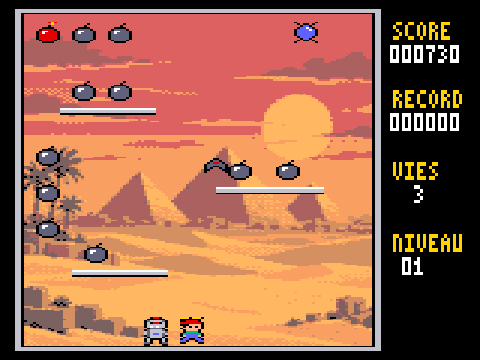
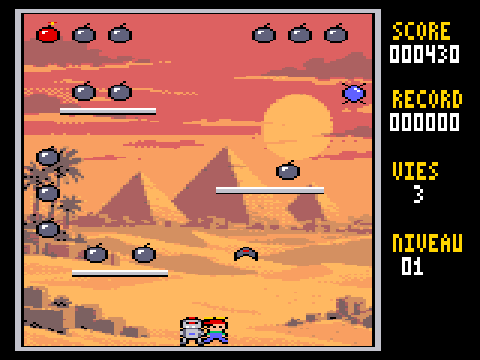
Chaîne de bombes allumées avec bonus, pièce éclair et glaçons
- chaîne : bonus de fin de niveau 10000/20000/30000/50000 pour 15/16/17/18 bombes allumées
- jauge (+1 éteinte, +2 allumée) : à 20, pièce éclair au centre ; prise : 5 s de gel,
  ennemis en glaçons immobiles mangés pour 100..2000 points, clignotement final, grâce
- tests : chaîne complète, apparition de la pièce, gel, glaçons mangés, fin du gel

diff --git a/test/test_jeu.py b/test/test_jeu.py
@@ -201,5 +201,45 @@ vide = sum(px[y][x] != 0 for y in range(8, 192) for x in range(8, 124) if (y, x)
 check(s.peek(S['GSTATE']) == 0 and vide == 0 and s.palette_rgb()[15] == tuple(lv[c] for c in pal_attendue[15]),
       f"sans disquette : fond noir hors bombes et Toto ({vide} pixels), couleurs des sprites, pas de plantage")
 
+# 14. chaîne de bombes allumées : les 18 dans l'ordre -> 18 x 200 + bonus 50000
+def prendre(s, i):
+    bx, by = NIV['bombes'][i] if i < 18 else NIV['piece']
+    poke(s, 'ENTS', bx // 2); poke(s, 'ENTS', by, 1); poke(s, 'ONGND', 0); s.run_frames(3)
+s = boot()
+for n in range(18):
+    s.mem.ram[S['INVUL']] = 250
+    prendre(s, s.peek(S['LIT']))
+check(s.peek(S['CHAIN']) == 18 and s.peek(S['GSTATE']) == 2 and score(s) == '053600' and s.border == 11,
+      f"chaîne complète : {s.peek(S['CHAIN'])} bombes allumées, score {score(s)} (3600 + bonus 50000), bord jaune")
+
+# 15. jauge -> pièce éclair -> gel : glaçons mangés 100 puis 200, fin du gel
+s = boot(); s.mem.ram[S['NMAXLV']] = 3
+while s.peek(S['NENN']) < 3:
+    s.mem.ram[S['INVUL']] = 250; s.mem.ram[S['SPT']] = min(s.peek(S['SPT']), 10); s.run_frames(10)
+for n in range(10):
+    s.mem.ram[S['INVUL']] = 250
+    prendre(s, s.peek(S['LIT']))
+cx, cy = NIV['piece']
+px = pixels(s)
+dessin = sum(px[cy + j][cx + i] != NIV['decor'][cy + j][cx + i] for j in range(12) for i in range(8))
+check(s.peek(S['COINON']) == 1 and dessin > 20 and s.peek(S['PWR']) == 0, f"jauge à 20 (10 bombes allumées) : la pièce éclair apparaît ({dessin} pixels)")
+sc0 = int(score(s)); s.mem.ram[S['INVUL']] = 0
+prendre(s, 18)
+enn = [E + 16 * k for k in range(1, s.peek(S['NENN']) + 1)]
+check(s.peek(S['POWER']) > 200 and s.border == 14 and all(s.mem.read_word(b + 6) == S['SPR_GLACON'] for b in enn),
+      "pièce prise : gel, ennemis en glaçons, bord bleu")
+pos = [(s.peek(b), s.peek(b + 1)) for b in enn]; s.run_frames(20)
+check(pos == [(s.peek(b), s.peek(b + 1)) for b in enn], "les glaçons ne bougent pas")
+for k, pts in ((1, 100), (1, 200)):
+    n0 = s.peek(S['NENN']); b = E + 16 * k
+    s.mem.ram[b] = P(s); s.mem.ram[b + 1] = Y(s); s.run_frames(3)
+    check(s.peek(S['NENN']) == n0 - 1 and int(score(s)) - sc0 == pts and s.peek(S['GSTATE']) == 0,
+          f"glaçon mangé : +{int(score(s)) - sc0} points, {s.peek(S['NENN'])} ennemi(s) restant(s), Toto intact")
+    sc0 = int(score(s))
+s.run_frames(260)
+reste = [E + 16 * k for k in range(1, s.peek(S['NENN']) + 1)]
+check(s.peek(S['POWER']) == 0 and s.border == 0 and all(s.mem.read_word(b + 6) != S['SPR_GLACON'] for b in reste),
+      "fin du gel : les ennemis reprennent leur apparence")
+
 print('\n' + ('TOUT EST OK' if not fails else f'{len(fails)} ÉCHEC(S)'))
 sys.exit(1 if fails else 0)

diff --git a/source/donnees.py b/source/donnees.py
@@ -21,6 +21,7 @@ BOMBES = [(12, 12), (24, 12), (36, 12), (84, 12), (96, 12), (108, 12),
           (12, 80), (12, 100), (12, 120), (112, 70), (112, 90), (112, 110),
           (24, 44), (36, 44), (76, 88), (92, 88), (28, 134), (44, 134)]
 DEPART = (60, 176)                                 # Toto au départ (x pixels, y)
+PIECE = (60, 76)                                   # pièce éclair : au centre, loin des bombes et plateformes
 
 def charge_decor(nom):
     """décor converti par outils/convertir_decor.py -> (pixels[200][160], niveaux TO9 de la palette)"""
@@ -142,7 +143,7 @@ if __name__ == '__main__':
     out.append(f"NPLAT   EQU     {len(PLATEFORMES)}")
     db("PLATS", sum([[x // 2, (x + w) // 2, y] for x, y, w in PLATEFORMES], []), 12)
     out.append(f"NBOMB   EQU     {len(BOMBES)}")
-    db("BOMBS", sum([[x // 2, y] for x, y in BOMBES], []), 12)
+    db("BOMBS", sum([[x // 2, y] for x, y in BOMBES + [PIECE]], []), 12)   # (la pièce éclair en dernier)
     out.append(f"DEPP    EQU     {DEPART[0] // 2}")
     out.append(f"DEPY    EQU     {DEPART[1]}")
     # chiffres 3x5 : une ligne = 3 bits (bit 2 = pixel de gauche)
@@ -162,6 +163,8 @@ if __name__ == '__main__':
     # bombes aussi compilées pour la copie du décor (29 octets par ligne)
     out += compile_sprite('BUF_BOMBE', SP.grid('BOMBE'), BUF_ROWB)
     out += compile_sprite('BUF_BOMBE_AL', SP.grid('BOMBE_ALLUMEE'), BUF_ROWB)
+    out += compile_sprite('BUF_ECLAIR', SP.grid('ECLAIR'), BUF_ROWB)        # pièce éclair
+    out += compile_sprite('SPR_GLACON', SP.grid('GLACON'))                  # ennemi gelé
     # images des ennemis par type (1 robot, 2 chauve-souris, 3 boule, 4 nuage)
     out.append("TYPIMG  FDB     SPR_ROBOT_1,SPR_ROBOT_2,SPR_CHAUVE_1,SPR_CHAUVE_2")
     out.append("        FDB     SPR_BOULE_1,SPR_BOULE_2,SPR_NUAGE_1,SPR_NUAGE_2")
@@ -176,5 +179,5 @@ if __name__ == '__main__':
     out.append("        RTS")
     out.append(f"BUFROW  EQU     {BUF_ROWB}")
     open('toboum_data.asm', 'w').write("\n".join(out) + "\n")
-    json.dump({'plateformes': PLATEFORMES, 'bombes': BOMBES, 'depart': DEPART, 'decor': decors_px[DECOR],
+    json.dump({'plateformes': PLATEFORMES, 'bombes': BOMBES, 'depart': DEPART, 'piece': PIECE, 'decor': decors_px[DECOR],
                'ordre': ORDRE, 'decors': decors_px}, open('toboum_niveau.json', 'w'))

diff --git a/README.md b/README.md
@@ -31,7 +31,9 @@ Le clavier du TO9 ne transmet qu'une touche à la fois : on part en courant, pui
 ### Règles
 
 - **Saut** : 10 points à chaque décollage.
-- **Bombes** : une bombe éteinte rapporte 100 points ; la bombe **allumée** (rouge) en rapporte 200 et allume la suivante. Quand tout est ramassé, on passe au niveau suivant.
+- **Bombes** : une bombe éteinte rapporte 100 points ; la bombe **allumée** (rouge) en rapporte 200 et allume la suivante, toujours dans le même ordre : il y a un parcours idéal à trouver. Quand tout est ramassé, on passe au niveau suivant.
+- **Bonus de chaîne** : en fin de niveau, 15 bombes allumées ramassées rapportent 10 000 points, 16 en rapportent 20 000, 17 en rapportent 30 000 et les 18, 50 000 (bord jaune).
+- **Pièce éclair** : une jauge gagne 1 par bombe éteinte et 2 par bombe allumée ; à 20, une pièce éclair apparaît au centre. Si Toto la prend, les ennemis se changent en **glaçons** pendant 5 s (bord bleu) : chacun rapporte 100, 200, 300, 500, 800, 1 200 puis 2 000 points et disparaît. Les glaçons clignotent pendant la dernière seconde.
 - **Un décor par niveau**, en boucle : Égypte, Rome, Moscou, Paris, Mont-Saint-Michel.
 - **Ennemis** : un toutes les 3 s, jusqu'à « niveau + 3 » (8 au plus). Ils sont plus rapides à partir du niveau 3.
   - le **robot** tombe, puis marche sur les plateformes ;
